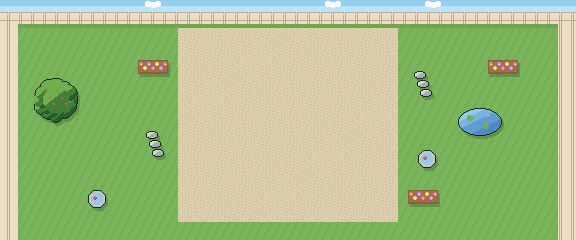
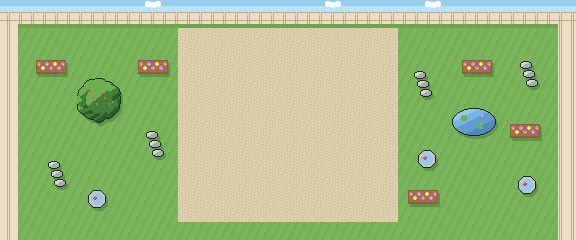
kittykibble: no prop cut by a screen edge, P2 CAUGHT! on a panel, the actors shake with the maze
- The rooms' furniture lies wholly inside or outside each width's view (320, 427, 520): the kitchen's table,
  shelves and rug, the living room's rug and armchair (cut at 320), the bed, the wardrobe, the tree, the pond, the
  flower beds, the attic's boxes and trunk; the kitten's bowls no longer cut at 320; the margins that only 520 shows
  get their own props (chairs, a plant, a bedside lamp, flowers, stones, boxes).
- The living room's pictures and the kitchen's clock leave the score's place at the top.
- P2 CAUGHT! sits on a little navy panel in the back wall's band (it was cream text over the baseboard and the
  maze's top wall with 2 players, over the clock with 3-4: hard to read in every room and language).
- A catch's shake moves the sprites with the maze and the room (they slid over the walls).

diff --git a/games/kittykibble/tools/make_art.py b/games/kittykibble/tools/make_art.py
@@ -765,34 +765,39 @@ def room_kitchen():
             cv.set(8, 8 - i, out)
         for i in range(3):
             cv.set(8 + i, 8, cur[1])
-    rm.paste(stamp(clock, 17, 17, out), 98, 3)
+    rm.paste(stamp(clock, 17, 17, out), 112, 3)                # clear of the score, under the P2 CAUGHT! panel
+
+    jars = [cur, glass, [(246, 214, 120), (214, 168, 70)]]
 
     def shelf(cv):
-        rect(cv, 0, 14, 63, 16, wood[1])
-        rect(cv, 0, 17, 63, 17, wood[2])
-        for i, c in enumerate([cur, glass, [(246, 214, 120), (214, 168, 70)], cur]):
+        rect(cv, 0, 14, 47, 16, wood[1])
+        rect(cv, 0, 17, 47, 17, wood[2])
+        for i, c in enumerate(jars):
             x = 4 + i * 15
             rect(cv, x, 4, x + 9, 13, c[1])
             rect(cv, x + 1, 5, x + 4, 12, c[0])
             rect(cv, x + 1, 2, x + 8, 3, wood[0])
-    rm.paste(stamp(shelf, 64, 19, out), -100, 2)
-    rm.paste(stamp(shelf, 64, 19, out), 340, 2)
-    # floor: the kitten's bowls (food and water), a chair, a table, a plant, a rug
+    # every prop lies wholly inside or wholly outside each width's view (stage x 0..319 at 320, -53..373 at 427,
+    # -100..419 at 520, its shadow included): nothing cut by a screen's edge
+    rm.paste(stamp(shelf, 48, 19, out), -51, 2)
+    rm.paste(stamp(shelf, 48, 19, out), 324, 2)
+    # floor: the kitten's bowls (food and water), chairs, a table, plants, a rug
     sh = {fl[0]: fl[2], fl[1]: (176, 186, 198)}
     rm.sh = sh
     rm.paste(stamp(lambda cv: bowl(cv, 14, 11, 12, [(120, 160, 226), (78, 108, 178)],
-                                   [KIB[0], KIB[1], KIB[1], KIB[2]]), 30, 24, out), -1, 150)
+                                   [KIB[0], KIB[1], KIB[1], KIB[2]]), 30, 24, out), 3, 150)
     rm.paste(stamp(lambda cv: bowl(cv, 13, 10, 11, [(250, 250, 250), (196, 200, 210)],
-                                   [glass[0], glass[0], glass[1], glass[1]]), 28, 22, out), 2, 184)
-    for cx, cy in ((290, 70), (290, 128)):
+                                   [glass[0], glass[0], glass[1], glass[1]]), 28, 22, out), 4, 184)
+    for cx, cy in ((290, 70), (290, 128), (-78, 92), (-78, 140)):
         rm.paste(stamp(lambda cv: chair(cv, 1, 5, wood, cur), 18, 22, out), cx - 1, cy - 5)
-    rm.paste(stamp(lambda cv: table(cv, 1, 1, 60, 100, wood,
-                                    lambda c: (bowl(c, 18, 24, 7, [(250, 250, 250), (196, 200, 210)], None),
-                                               bowl(c, 40, 70, 7, [(250, 250, 250), (196, 200, 210)], None))),
-                   62, 102, out), -95, 68)
-    rm.paste(stamp(lambda cv: plant(cv, 15, 15, 12, [(214, 122, 80), (162, 84, 56)],
-                                    [(126, 192, 92), (70, 132, 62)]), 32, 32, out), 338, 160)
-    rm.paste(stamp(lambda cv: rug(cv, 30, 16, 29, 15, (232, 150, 120), (196, 96, 86)), 62, 34, out), 330, 74, flat=True)
+    rm.paste(stamp(lambda cv: table(cv, 1, 1, 42, 100, wood,
+                                    lambda c: (bowl(c, 14, 24, 7, [(250, 250, 250), (196, 200, 210)], None),
+                                               bowl(c, 28, 70, 7, [(250, 250, 250), (196, 200, 210)], None))),
+                   44, 102, out), -51, 68)
+    for x, y in ((338, 160), (382, 100)):
+        rm.paste(stamp(lambda cv: plant(cv, 15, 15, 12, [(214, 122, 80), (162, 84, 56)],
+                                        [(126, 192, 92), (70, 132, 62)]), 32, 32, out), x, y)
+    rm.paste(stamp(lambda cv: rug(cv, 23, 15, 22, 14, (232, 150, 120), (196, 96, 86)), 46, 31, out), 325, 74, flat=True)
     return rm
 
 
@@ -815,15 +820,15 @@ def room_living():
     glass = [(178, 220, 244), (140, 194, 232)]
     cur = [(108, 158, 136), (72, 116, 100)]
     rm.paste(stamp(lambda cv: window(cv, 52, 22, [paper[0], wood[2]], glass, cur), 54, 24, out), 2, 0)
-    rm.paste(stamp(lambda cv: window(cv, 52, 22, [paper[0], wood[2]], glass, cur), 54, 24, out), 230, 0)
+    rm.paste(stamp(lambda cv: window(cv, 52, 22, [paper[0], wood[2]], glass, cur), 54, 24, out), 236, 0)
 
     def picture(cv):
         rect(cv, 0, 0, 23, 17, (216, 172, 82))
         rect(cv, 2, 2, 21, 15, (150, 200, 230))
         rect(cv, 2, 11, 21, 15, (110, 170, 96))
         disc(cv, 15, 6, 2.2, (250, 230, 140))
-    rm.paste(stamp(picture, 25, 19, out), 122, 2)
-    rm.paste(stamp(picture, 25, 19, out), 176, 2)
+    rm.paste(stamp(picture, 25, 19, out), 96, 2)                # either side of the score (x 128..192)
+    rm.paste(stamp(picture, 25, 19, out), 199, 2)
     # an armchair, a round rug with a basket of yarn, a floor lamp, a plant, a coffee table
     sh = {fl[0]: (170, 122, 80), fl[1]: (154, 108, 72)}
     rm.sh = sh
@@ -835,15 +840,15 @@ def room_living():
         hs.ellipse(cv, 16, 16, 9, 8, [(216, 132, 178), (216, 132, 178), sofa[0], sofa[0]])
         rect(cv, 0, 0, 31, 4, (216, 132, 178))
     rm.paste(stamp(armchair, 32, 30, out), -92, 60)
-    rm.paste(stamp(armchair, 32, 30, out), 290, 60)
-    rm.paste(stamp(lambda cv: rug(cv, 26, 22, 25, 21, (120, 168, 200), (232, 214, 150)), 54, 46, out), -80, 128, flat=True)
+    rm.paste(stamp(armchair, 32, 30, out), 284, 60)
+    rm.paste(stamp(lambda cv: rug(cv, 24, 21, 23, 20, (120, 168, 200), (232, 214, 150)), 50, 44, out), -51, 128, flat=True)
 
     def basket(cv):
         hs.ellipse(cv, 10, 9, 9, 7, [wood[0], wood[0], wood[1], wood[1]])
         oval(cv, 10, 9, 7, 5, wood[2])
         for cx, c in ((7, YARN), (13, [(150, 200, 240), (90, 140, 210), (60, 96, 170)])):
             hs.ellipse(cv, cx, 8.5, 3.2, 3.2, [c[0], c[1], c[1], c[2]])
-    rm.paste(stamp(basket, 22, 20, out), -66, 140)
+    rm.paste(stamp(basket, 22, 20, out), -38, 140)
     rm.paste(stamp(basket, 22, 20, out), 6, 196)
 
     def lamp(cv):
@@ -878,18 +883,19 @@ def room_bedroom():
     quilt = [(162, 178, 238), (98, 110, 184)]
 
     def bed(cv):
-        rect(cv, 0, 0, 51, 85, wood[2])
-        rect(cv, 2, 2, 49, 83, wood[1])
-        rect(cv, 3, 3, 48, 20, (250, 250, 250))
-        hs.ellipse(cv, 15, 11, 10, 6, [(250, 250, 250), (250, 250, 250), (220, 224, 240), (220, 224, 240)])
-        hs.ellipse(cv, 37, 11, 10, 6, [(250, 250, 250), (250, 250, 250), (220, 224, 240), (220, 224, 240)])
-        rect(cv, 3, 24, 48, 82, quilt[0])
+        rect(cv, 0, 0, 47, 85, wood[2])
+        rect(cv, 2, 2, 45, 83, wood[1])
+        rect(cv, 3, 3, 44, 20, (250, 250, 250))
+        hs.ellipse(cv, 13, 11, 9, 6, [(250, 250, 250), (250, 250, 250), (220, 224, 240), (220, 224, 240)])
+        hs.ellipse(cv, 34, 11, 9, 6, [(250, 250, 250), (250, 250, 250), (220, 224, 240), (220, 224, 240)])
+        rect(cv, 3, 24, 44, 82, quilt[0])
         for y in range(24, 83):
-            for x in range(3, 49):
+            for x in range(3, 45):
                 if (x + y) % 10 == 0 or (x - y) % 10 == 0:
                     cv.set(x, y, quilt[1])
-        rect(cv, 3, 24, 48, 26, (250, 206, 226))
-    rm.paste(stamp(bed, 52, 86, out), -100, 36)
+        rect(cv, 3, 24, 44, 26, (250, 206, 226))
+    # every prop wholly inside or outside each width's view (as in the kitchen)
+    rm.paste(stamp(bed, 48, 86, out), -52, 36)
 
     def toybox(cv):
         rect(cv, 0, 0, 27, 21, (232, 120, 110))
@@ -911,14 +917,22 @@ def room_bedroom():
         hs.ellipse(cv, 9, 17, 7, 6, [(210, 156, 106), (210, 156, 106), (176, 120, 80), (176, 120, 80)])
         cv.set(7, 7, out), cv.set(11, 7, out), cv.set(9, 9, out)
     rm.paste(stamp(teddy, 19, 24, out), 10, 60)
-    rm.paste(stamp(lambda cv: rug(cv, 26, 18, 25, 17, (250, 220, 240), (200, 170, 230)), 54, 38, out), 330, 150, flat=True)
+    rm.paste(stamp(lambda cv: rug(cv, 23, 16, 22, 15, (250, 220, 240), (200, 170, 230)), 46, 33, out), 325, 150, flat=True)
 
     def wardrobe(cv):
         rect(cv, 0, 0, 39, 25, wood[2])
         rect(cv, 1, 1, 38, 21, wood[1])
         rect(cv, 2, 2, 37, 4, wood[0])
         cv.set(19, 12, wood[2]), cv.set(20, 12, wood[2])
-    rm.paste(stamp(wardrobe, 40, 26, out), 360, 34)
+    rm.paste(stamp(wardrobe, 40, 26, out), -97, 34)
+
+    def nightstand(cv):                                         # a bedside table with its lamp, seen from above
+        rect(cv, 0, 0, 23, 19, wood[2])
+        rect(cv, 1, 1, 22, 15, wood[1])
+        rect(cv, 2, 2, 21, 3, wood[0])
+        disc(cv, 12, 9, 5.5, (250, 228, 150))
+        disc(cv, 12, 9, 3.5, (252, 244, 210))
+    rm.paste(stamp(nightstand, 24, 20, out), 386, 44)
     return rm
 
 
@@ -961,7 +975,7 @@ def room_garden():
         hs.ellipse(cv, 22, 22, 13, 13, [leaf[0], leaf[0], leaf[1], leaf[1]])
         for k in range(6):
             disc(cv, 12 + k * 4, 14 + (k % 3) * 6, 1.2, (230, 90, 80))
-    rm.paste(stamp(tree, 46, 46, out), -94, 78)
+    rm.paste(stamp(tree, 46, 46, out), -51, 78)            # every prop wholly inside or outside each view
 
     def flowers(cv):
         rect(cv, 0, 0, 29, 13, (140, 96, 64))
@@ -972,7 +986,9 @@ def room_garden():
             cv.set(3 + k * 4, 4 + (k % 2) * 4, (250, 250, 250))
     rm.paste(stamp(flowers, 30, 14, out), 10, 60)
     rm.paste(stamp(flowers, 30, 14, out), 280, 190)
-    rm.paste(stamp(flowers, 30, 14, out), 360, 60)
+    rm.paste(stamp(flowers, 30, 14, out), 334, 60)
+    rm.paste(stamp(flowers, 30, 14, out), -92, 60)
+    rm.paste(stamp(flowers, 30, 14, out), 382, 124)
 
     def pond(cv):
         hs.ellipse(cv, 22, 14, 21, 13, [(150, 200, 236), (120, 180, 226), (96, 156, 210), (80, 136, 196)])
@@ -980,7 +996,7 @@ def room_garden():
             disc(cv, cx, cy, 3, (110, 176, 80))
             cv.set(cx, cy - 3, (150, 200, 236))
         disc(cv, 30, 8, 1.5, (250, 150, 170))
-    rm.paste(stamp(pond, 46, 30, out), 330, 108)
+    rm.paste(stamp(pond, 46, 30, out), 324, 108)
 
     def stones(cv):
         for k in range(3):
@@ -988,6 +1004,8 @@ def room_garden():
                                                            (170, 170, 176)])
     rm.paste(stamp(stones, 18, 30, out), 286, 70)
     rm.paste(stamp(stones, 18, 30, out), 18, 130)
+    rm.paste(stamp(stones, 18, 30, out), -80, 160)
+    rm.paste(stamp(stones, 18, 30, out), 392, 60)
 
     def birdbath(cv):
         disc(cv, 9, 9, 8.5, (196, 196, 206))
@@ -995,6 +1013,7 @@ def room_garden():
         hs.ellipse(cv, 7, 8, 2.4, 1.8, [(250, 120, 100), (250, 120, 100), (200, 80, 70), (200, 80, 70)])
     rm.paste(stamp(birdbath, 19, 19, out), 290, 150)
     rm.paste(stamp(birdbath, 19, 19, out), -40, 190)
+    rm.paste(stamp(birdbath, 19, 19, out), 390, 176)
     return rm
 
 
@@ -1034,8 +1053,9 @@ def room_attic():
     tape = (236, 220, 176)
     sh = {fl[0]: (104, 106, 122), fl[1]: (94, 96, 112)}
     rm.sh = sh
-    for x, y, w, h in ((-96, 60, 36, 28), (-70, 92, 30, 24), (-100, 120, 28, 26), (300, 60, 30, 26),
-                       (290, 150, 26, 22), (360, 196, 34, 26), (6, 196, 30, 22)):
+    # every prop wholly inside or outside each width's view (as in the kitchen)
+    for x, y, w, h in ((-96, 60, 36, 28), (-48, 92, 30, 24), (-98, 124, 28, 26), (-44, 170, 28, 24), (286, 60, 30, 26),
+                       (290, 150, 26, 22), (330, 190, 34, 26), (6, 196, 30, 22), (382, 60, 30, 26), (384, 160, 28, 24)):
         rm.paste(stamp(lambda cv, w=w, h=h: box(cv, 0, 0, w, h, card, tape), w + 1, h + 1, out), x, y)
 
     def trunk(cv):
@@ -1044,7 +1064,7 @@ def room_attic():
         for x in (6, 37):
             rect(cv, x, 0, x + 1, 23, (214, 184, 96))
         rect(cv, 20, 9, 23, 13, (214, 184, 96))
-    rm.paste(stamp(trunk, 44, 26, out), 348, 104)
+    rm.paste(stamp(trunk, 44, 26, out), 326, 104)
 
     def web(cv):
         for k in range(5):
@@ -1055,7 +1075,7 @@ def room_attic():
             for k in range(13):
                 a = k * math.pi / 26
                 cv.set(int(r * math.cos(a)), int(r * math.sin(a)), (210, 214, 226))
-    rm.paste(stamp(web, 15, 15, (210, 214, 226)), -108, 28, flat=True)
+    rm.paste(stamp(web, 15, 15, (210, 214, 226)), -100, 28, flat=True)
 
     def lamp(cv):
         disc(cv, 8, 8, 7.5, (250, 228, 150))

diff --git a/games/kittykibble/src/draw.c b/games/kittykibble/src/draw.c
@@ -159,6 +159,8 @@ static void wall_palette(const world *w)
 static void spr(int id, int x, int y, int prio, int pal, int flags)
 {
     const gm_sprite_def *d = &gm_spr[id];
+    x += hu_shake_x();                  /* a catch's shake moves the actors with the maze and the room (BG2, BG3) */
+    y += hu_shake_y();
     if (x <= rs_screen_left() - (int)d->w || x >= rs_screen_right() || y <= -(int)d->h || y >= RS_SCREEN_H) return;
     rs_spr(x, y, d->tile, d->w, d->h, pal >= 0 ? pal : d->pal, prio, flags);
 }
@@ -283,11 +285,15 @@ static const char *room_name(int maze)
     }
 }
 
-static void text_centered(int row, const char *s, int big)
+/* P2 CAUGHT! on a little panel in the band above the maze (the back wall: readable over any room's windows and
+ * pictures, between the 2 players' scores and the 3-4 players' corner chips); a text with accents or CJK glyphs
+ * takes one more row (its marks need the panel's fill above them) */
+static void caught_panel(const char *s)
 {
-    if (big && hu_width(s, 1) > 38) big = 0;           /* a long translation: the small letters */
-    if (big) hu_big(hu_center(s, 1), row, s, HU_BIG_FREE);
-    else hu_text(hu_center(s, 0), row, s);
+    int tall = hu_tall(s), w = hu_width(s, 0) + 4;
+    if (w > 38) w = 38;
+    hu_panel((40 - w) / 2, 0, w, 3 + tall);
+    hu_box_text(hu_center(s, 0), 1 + tall, s);
 }
 
 /* the room's name (and number) or ROOM CLEAR! on a little panel over the dock: gold 2x letters, small ones if long */
@@ -336,7 +342,7 @@ static void screen_text(const world *w, int state, int st_t, int best, int new_b
                 char tag[16];
                 rs_strf(tag, sizeof tag, HTR(PLAYER_TAG), w->msg_player + 1);
                 rs_strf(s, sizeof s, TR(CAUGHT), tag);
-                text_centered(w->players >= 3 ? 1 : 3, s, 0);
+                caught_panel(s);
             }
         }
         if (state == ST_OVER) {

diff --git a/games/kittykibble/DESIGN.md b/games/kittykibble/DESIGN.md
@@ -109,21 +109,22 @@ reaches S (the tests' game over).
 | Layer | Contents | Scroll |
 |---|---|---|
 | backdrop | (hidden by the room) | - |
-| BG3 | the room around the maze, one picture per room: the floor (kitchen checks, honey planks, a peach carpet, gravel paths in a lawn, dusty blue boards), the back wall at the top (windows, a clock, pictures, shelves; the garden's fence and sky, the attic's roof and round windows), furniture seen from above with soft shadows in the margins (the kitten's bowls, chairs, a table, armchairs, a bed, toy boxes, a tree, a pond, flower beds, cardboard boxes, a trunk), the pet doors | fixed (shakes on a catch) |
+| BG3 | the room around the maze, one picture per room: the floor (kitchen checks, honey planks, a peach carpet, gravel paths in a lawn, dusty blue boards), the back wall at the top (windows, a clock, pictures, shelves; the garden's fence and sky, the attic's roof and round windows), furniture seen from above with soft shadows in the margins (the kitten's bowls, chairs, a table, armchairs, a bed, a bedside lamp, toy boxes, a tree, a pond, flower beds, cardboard boxes, a trunk), the pet doors | fixed (shakes on a catch, the sprites with it) |
 | BG2 | the maze: the walls (each room's furniture: tiled kitchen counters, tufted plum sofas, quilted pillows, hedges, taped cardboard boxes; 47 rounded shapes chosen by a cell's 8 neighbours, lit from the top-left with a dark front face), the kibble, the gate and the dock's charging floor; rebuilt from the world each frame | the maze's 4-px offset (shakes) |
-| BG1 | the house UI kit: the logo, the title's lines, the room's name, ROOM CLEAR!, P2 CAUGHT!, the panels, PAUSED | fixed |
+| BG1 | the house UI kit: the logo, the title's lines, the room's name, ROOM CLEAR!, P2 CAUGHT! (a little panel in the back wall's band), the panels, PAUSED | fixed |
 | OBJ | the kittens (P1 OBJ 0; P2-P4 OBJ 1, 4, 5: fur and collar recoloured), the yarn, the fish, points, dust, the eyes zipping home (OBJ 2), the kit's digits, glyphs and medals (OBJ 3), the vacuums (OBJ 6; scared and flashing: OBJ 7) | |
 
 Window 1 hides the sprites outside the maze's columns on its lines (the raster callback sets it per line): the actors
 go out through the pet doors and come back on the other side. VRAM: the UI and its glyph pool 0..767, the maze at 1024
-(47 wall shapes + 4), the room at 1280 (up to 720 tiles: 174-401 by room, loaded with its palettes when a room
+(47 wall shapes + 4), the room at 1280 (up to 720 tiles: 180-457 by room, loaded with its palettes when a room
 begins), the sprites at 2048 (202 tiles, then the kit's).
 
 **Widescreen** (docs/spec.md "Widescreen"): the game opts in (`max_width`, `WIDESCREEN_kittykibble = 1`). The maze and
 the play are the same at every width (the stage's 320 columns are centred); a wider screen (427 for 16:9, 520 for
 phones) shows more of the room around it: more floor and furniture (a table, armchairs, a bed, a tree, boxes), and on
 the widest the room's side walls. The rooms are "stage panoramas" (576 px from stage x -128) so no width shows them
-twice. A state saved at one width loads at another.
+twice; each prop lies wholly inside or wholly outside each width's view (stage x 0..319, -53..373, -100..419, its
+shadow included), so no screen edge cuts a piece of furniture. A state saved at one width loads at another.
 
 ## Screens (the house flow: no "get ready", the title is the only menu)
 title (the kitchen, the logo, the kitten bobbing with its ball of yarn, the four vacuums gliding by, the player slots,
